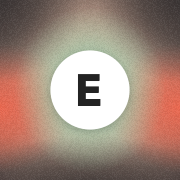
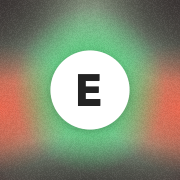
Make the in-tune green properly green
The glow was a muted sage that the cream halo washed out further. It is now
a clear green, and the halo behind it leans green near the note so the
colour reads in light and dark mode. The app icon matches.

diff --git a/app.js b/app.js
@@ -396,16 +396,22 @@ const BLOBS = [
   ['.blob.dark-r', 0.72, 0.95, (fx, s, k, w) => [(1.0 - 0.16 * Math.max(0, -s)) * w, 0.04 + 0.3 * Math.max(0, -s), clamp(0.6 - 0.4 * s, 0.05, 1)]],
   ['.blob.glow', 0.56, 0.82, (fx, s, k, w) => [fx, 0.5, 1]],
 ].map(([sel, w, h, place], i) => ({ el: el.field.querySelector(sel), w, h, place, ph: i * 1.7, f: 0.45 + i * 0.09 }));
-const glowEl = el.field.querySelector('.blob.glow');
+const glowEl = el.field.querySelector('.blob.glow'), haloEl = el.field.querySelector('.blob.halo');
 
 // Glow colour by distance from the target: sage green → warm peach → coral red
-const GREEN = [156, 206, 174], PEACH = [240, 166, 132], CORAL = [242, 88, 76], NEUTRAL = [232, 206, 186];
+const GREEN = [64, 204, 112], PEACH = [240, 166, 132], CORAL = [242, 88, 76], NEUTRAL = [232, 206, 186];
 const smooth = (a, b, x) => { const t = clamp((x - a) / (b - a), 0, 1); return t * t * (3 - 2 * t); };
 const mix = (a, b, t) => a.map((v, i) => v + (b[i] - v) * t);
 function glowColour(cents, presence) {
   const d = Math.abs(cents);
   const col = mix(mix(GREEN, PEACH, smooth(3, 9, d)), CORAL, smooth(8, 20, d));
   return mix(NEUTRAL, col, presence).map(Math.round).join(', ');
+}
+// The cream halo behind the glow leans green near the note, so the in-tune green isn't washed out
+const HALO = [240, 200, 174], HALO_GREEN = [178, 232, 190];
+function haloColour(cents, presence) {
+  const near = presence * (1 - smooth(3, 10, Math.abs(cents)));
+  return mix(HALO, HALO_GREEN, near).map(Math.round).join(', ');
 }
 
 const fieldSize = { w: 0, h: 0 };
@@ -486,6 +492,7 @@ function draw(now) {
     b.el.style.opacity = op.toFixed(3);
   }
   glowEl.style.setProperty("--c", glowColour(meter.p * 50, meter.presence));
+  haloEl.style.setProperty('--c', haloColour(meter.p * 50, meter.presence));
   el.focal.style.transform = `translateX(${fx.toFixed(1)}px)`;
   el.needle.style.transform = `translateX(${(((meter.p + 1) / 2) * el.ticks.clientWidth).toFixed(1)}px)`;
 

diff --git a/sw.js b/sw.js
@@ -1,6 +1,6 @@
 // Network-first so updates show up on the next open; the cache keeps it working
 // offline and covers slow connections after a short wait.
-const CACHE = 'tuner-v29';
+const CACHE = 'tuner-v30';
 // Only what the app needs to run offline. The large install icons (512px, Apple touch)
 // are fetched by the OS once at install time, so keeping them here would just use space.
 const ASSETS = [
